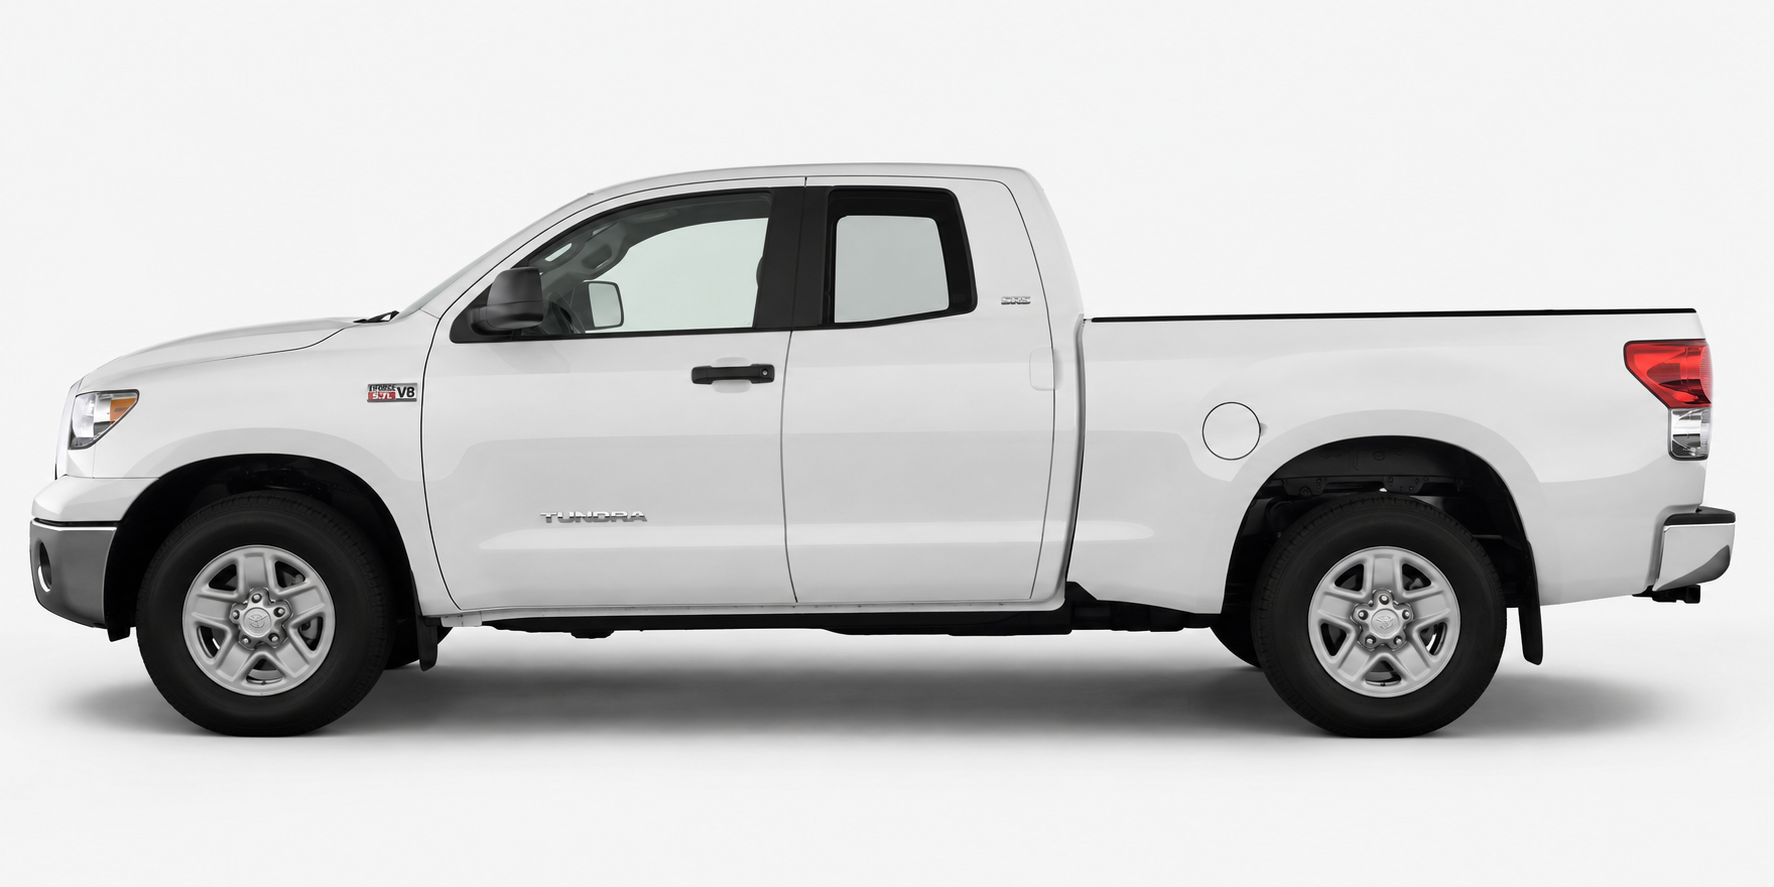
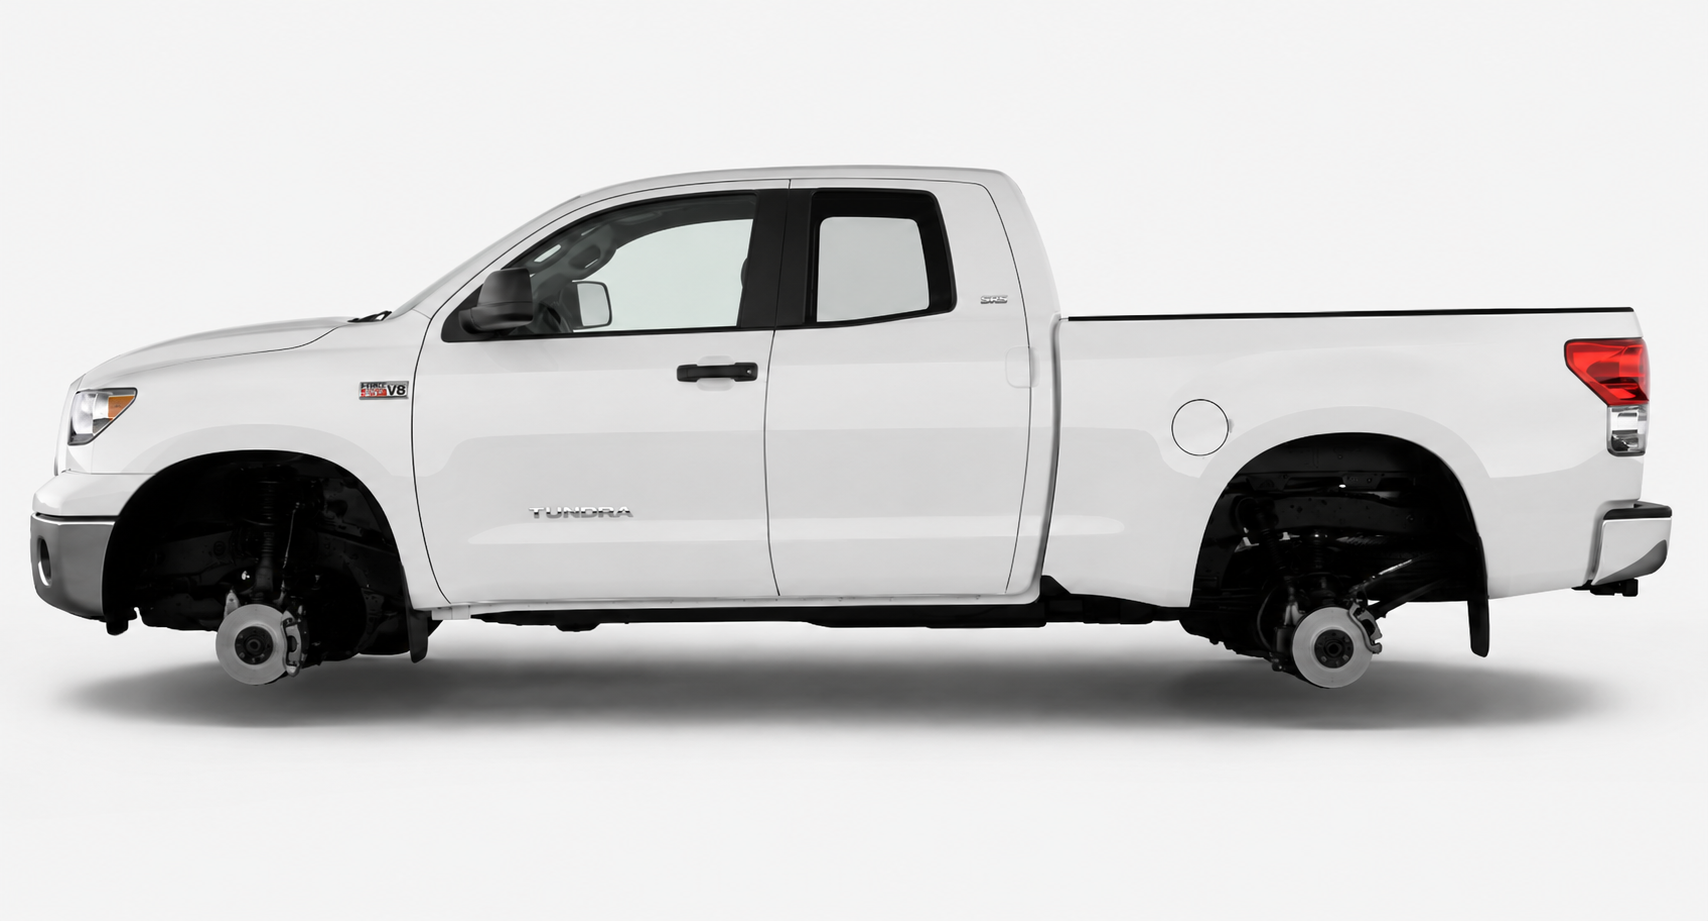
feat(visualizer-lab): Update to wheel-less vehicle image
- Replaced tundra image with wheel/tire-removed version
- Updated wheel positions for new image (305,595 front / 1355,600 rear)
- Increased default radius to 100px for better coverage
- Added cached image load handler (fixes SSR hydration timing)
- Removed OEM wheel mask (no longer needed)

diff --git a/src/app/visualizer-lab/tundra-test/page.tsx b/src/app/visualizer-lab/tundra-test/page.tsx
@@ -74,8 +74,8 @@ const WHEEL_ASSETS = [
 const DEFAULT_CONFIG: VisualizerConfig = {
   vehicleImage: "/visualizer/vehicles/visualizer-tundra-2010-sr5-white-side.png",
   wheelImage: "/visualizer/wheels/test-wheel.png",
-  frontWheel: { x: 260, y: 622, radius: 92 },
-  rearWheel: { x: 1385, y: 627, radius: 92 },
+  frontWheel: { x: 305, y: 595, radius: 100 },
+  rearWheel: { x: 1355, y: 600, radius: 100 },
   tire: {
     outerDiameterScale: 1.35,
     sidewallThickness: 30,
@@ -311,6 +311,16 @@ export default function TundraTestPage() {
       }
     }
   }, []);
+
+  // Handle already-cached images (onLoad fires before React attaches handler)
+  useEffect(() => {
+    const img = imageRef.current;
+    if (img && img.complete && img.naturalWidth > 0) {
+      setNaturalSize({ width: img.naturalWidth, height: img.naturalHeight });
+      setRenderedSize({ width: img.clientWidth, height: img.clientHeight });
+      setImageLoaded(true);
+    }
+  }, [config.vehicleImage]);
 
   // Update rendered size on resize
   useEffect(() => {